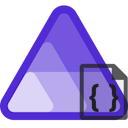
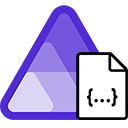
Changing art

diff --git a/src/VSCommandTable.cs b/src/VSCommandTable.cs
@@ -17,6 +17,9 @@ namespace AspireManifestGen
 
         public const string UIContextGuidString = "f686d1d0-9ddf-47db-a0dc-59032e168f69";
         public static Guid UIContextGuid = new Guid(UIContextGuidString);
+
+        public const string CommandIconString = "e70c51b3-9a0c-495d-9638-0578a72342c2";
+        public static Guid CommandIcon = new Guid(CommandIconString);
     }
     /// <summary>
     /// Helper class that encapsulates all CommandIDs uses across VS Package.
@@ -25,5 +28,6 @@ namespace AspireManifestGen
     {
         public const int ContextMenuGroup = 0x0001;
         public const int MyCommand = 0x0100;
+        public const int CommandIcon1 = 0x0001;
     }
 }
